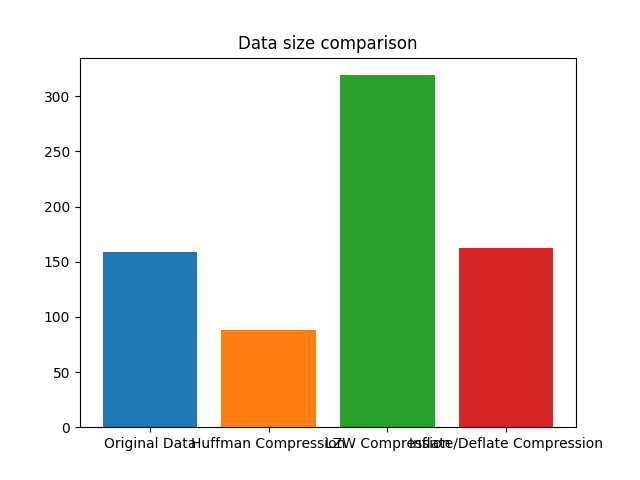
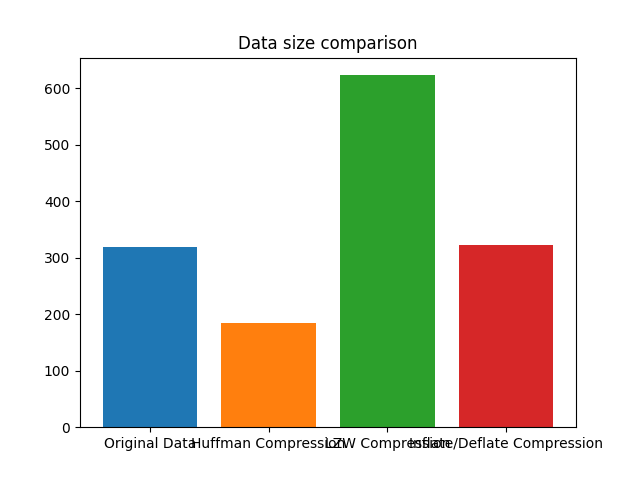
Added Flops... Does not work

diff --git a/Python/JointCode.py b/Python/JointCode.py
@@ -3,50 +3,76 @@ import matplotlib.pyplot as plt
 import numpy as np
 from commpy.channelcoding import Trellis, conv_encode, turbo_encode, get_ldpc_code_params
 import string
-from time import perf_counter
 # Importing premade functions that will help clean the code
 from FuncAndClass import *
+# Importing tools for benchmarking
+from time import perf_counter_ns
+from pypapi import papi_high
+from pypapi import events as papi_events
 
 for z in range(10):
     print(z)
     # Data Generation
-    sizeOfData = 20  #np.random.randint(1, 64)
+    sizeOfData = 40  #np.random.randint(1, 64)
     symbols = list(string.ascii_uppercase)
     arr = np.random.choice(symbols, sizeOfData) # The code
     strData = ''.join([str(i) for i in arr])
     byteData = bytes(strData, 'utf-8')
 
-    # Data that will help with comparisions
+    
+    # Data that will help with comparisions of compression techniques
     sourceNames = ["Original Data", "Huffman Compression", "LZW Compression", "Inflate/Deflate Compression"]
     origData = binText(strData) ; h = HuffmanCoding() ; huffData = h.compress(byteData) ; LZWdata = LZWEnc(byteData) ; defData = deflate(byteData)
     sourceCodes=[origData, huffData, LZWdata, defData] 
     decodedCodes=[origData, huffData, LZWdata, defData]
     compAlgo = [binText, h.compress, LZWEnc, deflate] # Functinos of the compression techniques we use
     deCompAlgo = [textBin, h.decompress, LZWDec, inflate] # Functions of decompression techniques we use
-    noOfData = 4
-    time =  [0.0, 0.0, 0.0, 0.0] ; timeDe = [0.0, 0.0, 0.0, 0.0] ;timeStart = [0.0, 0.0, 0.0, 0.0] ; timeStop = [0.0, 0.0, 0.0, 0.0]
+    
+    # Tracking for benchmarking
+    timeEn = [0.0,0.0,0.0,0.0] ; timeDe = [0.0,0.0,0.0,0.0]; flopsEn = [0.0,0.0,0.0,0.0,]; flopsDe = [0.0,0.0,0.0,0.0]
+    
+    noOfData = 4    #How many compression techniques do we want to use 
+
 
     for i in range(noOfData):
-        timeStart[i] = perf_counter()
-        sourceCodes[i] = compAlgo[i](byteData)
-        timeStop[i] = perf_counter()
-        time[i] = timeStop[i] - timeStart[i]
-    
-    for i in range(noOfData):
-        timeStart[i] = perf_counter()
+        # Time taken to compress
+        timeStart = perf_counter_ns()
+        if i == 0: sourceCodes[i] = compAlgo[i](strData)
+        else:sourceCodes[i] = compAlgo[i](byteData)
+        timeStop = perf_counter_ns()
+        timeEn[i] = timeStart - timeStop
+        
+        #Number of Flops 
+        papi_high.flops()
+        result = papi_high.flops()
+        flopsEn[i] = result.mflops
+        papi_high.stop_counters()
+
+    for i in range(noOfData):     
+        # Time taken to decompress
+        timeStart = perf_counter_ns()
         decodedCodes[i] = deCompAlgo[i](sourceCodes[i])
-        timeStop[i] = perf_counter()
-        timeDe[i] = timeStop[i] - timeStart[i]
+        timeStop = perf_counter_ns()
+        timeDe[i] = timeStart - timeStop
+        
+        #Number of Flops 
+        papi_high.flops()
+        decodedCodes[i] = deCompAlgo[i](sourceCodes[i])
+        result = papi_high.flops()
+        flopsDe[i] = result.mflops
+        papi_high.stop_counters()
     
     for i in range(noOfData): 
         if strData != decodedCodes[i]: print(str(i) + "\n" + "Error in decoding found" + "\n" + "original data: " + strData + "\n" + "decoded data: " + decodedCodes[i])
     
-    print ("Normally our code would be of size ", len(sourceCodes[0])) ; print("")
+    print("Normally our code would be of size ", len(sourceCodes[0])) ; print("")
     for i in range(0, noOfData):
-        print ("Using ", sourceNames[i],  len(sourceCodes[i]))
-        print ("Compression ratio of " , len(origData)/len(sourceCodes[i]))
-        print ("The time taken to compress", time[i])
-        print ("The time taken to decompress", timeDe[i])
+        print("Using ", sourceNames[i],  len(sourceCodes[i]))
+        print("Compression ratio of " , len(origData)/len(sourceCodes[i]))
+        print("The time taken to compress", timeEn[i])
+        print("The time taken to decompress", timeDe[i])
+        print("Number of FLOPS to compress", flopsEn[i])
+        print("Number of FLOPS to compress", flopsDe[i])
         print("")
         # plotting for better visuals
         plt.bar(sourceNames[i], len(sourceCodes[i]), align='center')
@@ -82,9 +108,6 @@ for z in range(10):
         plt.close()
         print("")
     
-
-# In[ ]:
-
 
 
 

diff --git a/Python/FuncAndClass.py b/Python/FuncAndClass.py
@@ -1,36 +1,37 @@
 # libraries
 import matplotlib.pyplot as plt
 import numpy as np
-import heapq
-import zlib
 import sys
 import io
+import heapq # for use with huffman coding
+from struct import * # ^^^
+import zlib # to use the deflate/inflate
+from functools import reduce; from operator import ixor #to help withe error correction
 
 # Importing the tools need from the commPy library
 from commpy.modulation import QAMModem, Modem
 from commpy.channels import awgn
 from commpy.channelcoding import viterbi_decode, map_decode, turbo_decode, ldpc_bp_decode
-from functools import reduce; from operator import ixor
-from struct import *
 
 # Huffman Coding in python
 
 # Global Variables
-totWithHammSize = 8
-noHammSize = 4
+totWithHammSize = 11
+noHammSize = 16
 
 # Conversion to and from binary
 
 
 def binText(arr):
-     # Load data as bytes if its not otherwise continue
+    # Load data as bytes if its not otherwise continue
     if type(arr) != bytes: arr = bytes(arr, 'utf-8')
     return bin(int.from_bytes(arr, byteorder=sys.byteorder))[2:]
 
 
 def textBin(arr):
+    print(arr)
     arr = int(arr, 2).to_bytes((len(arr) + 7) // 8, byteorder=sys.byteorder)
-    return arr.decode()
+    return str(arr, 'utf-8')
 
 
 # Huffman Coding
@@ -472,7 +473,7 @@ def monteTransmit(EbNo, transArr, sourceData, code=0, source=0):
             decodedData=h.decompress(decodedData)
         elif source == 2: decodedData=LZWDec(decodedData)
         elif source == 3: decodedData=inflate(decodedData)
-        # else: decodedData=textBin(decodedData)
+        else: decodedData=textBin(decodedData)
 
         numErrs += np.sum(binText(decodedData) != binText(sourceData))
         BERarr[i]=numErrs/len(binText(decodedData))
